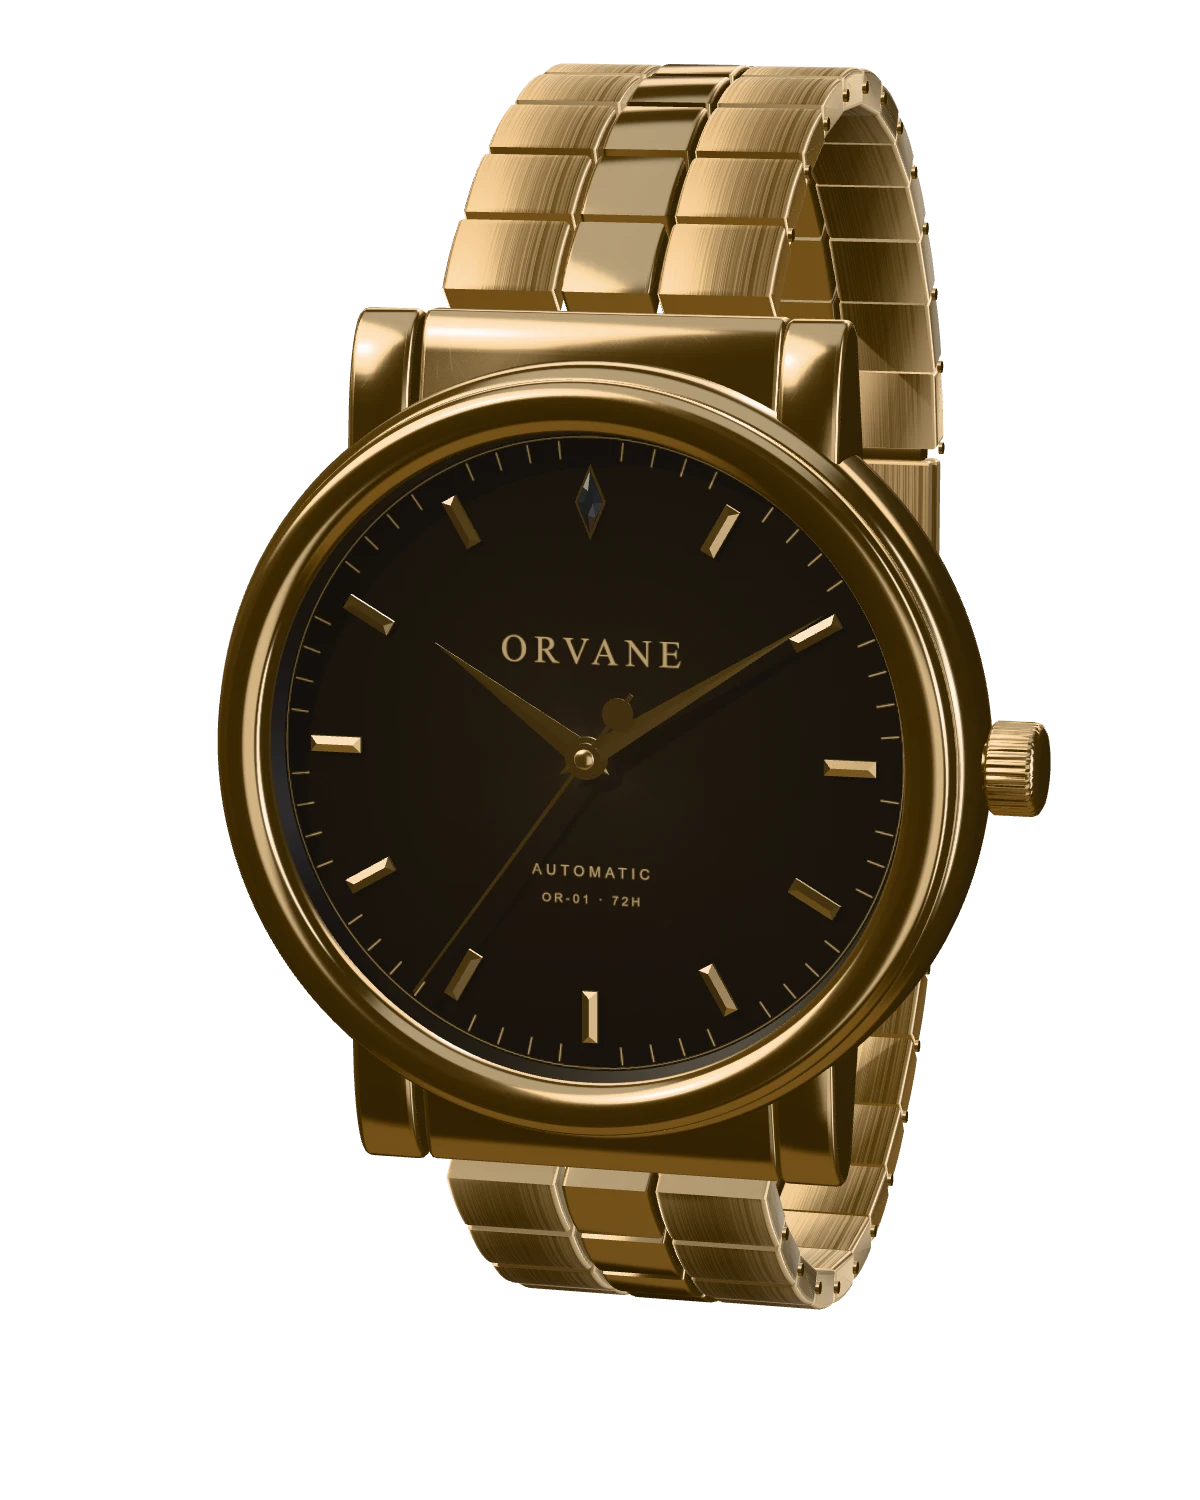
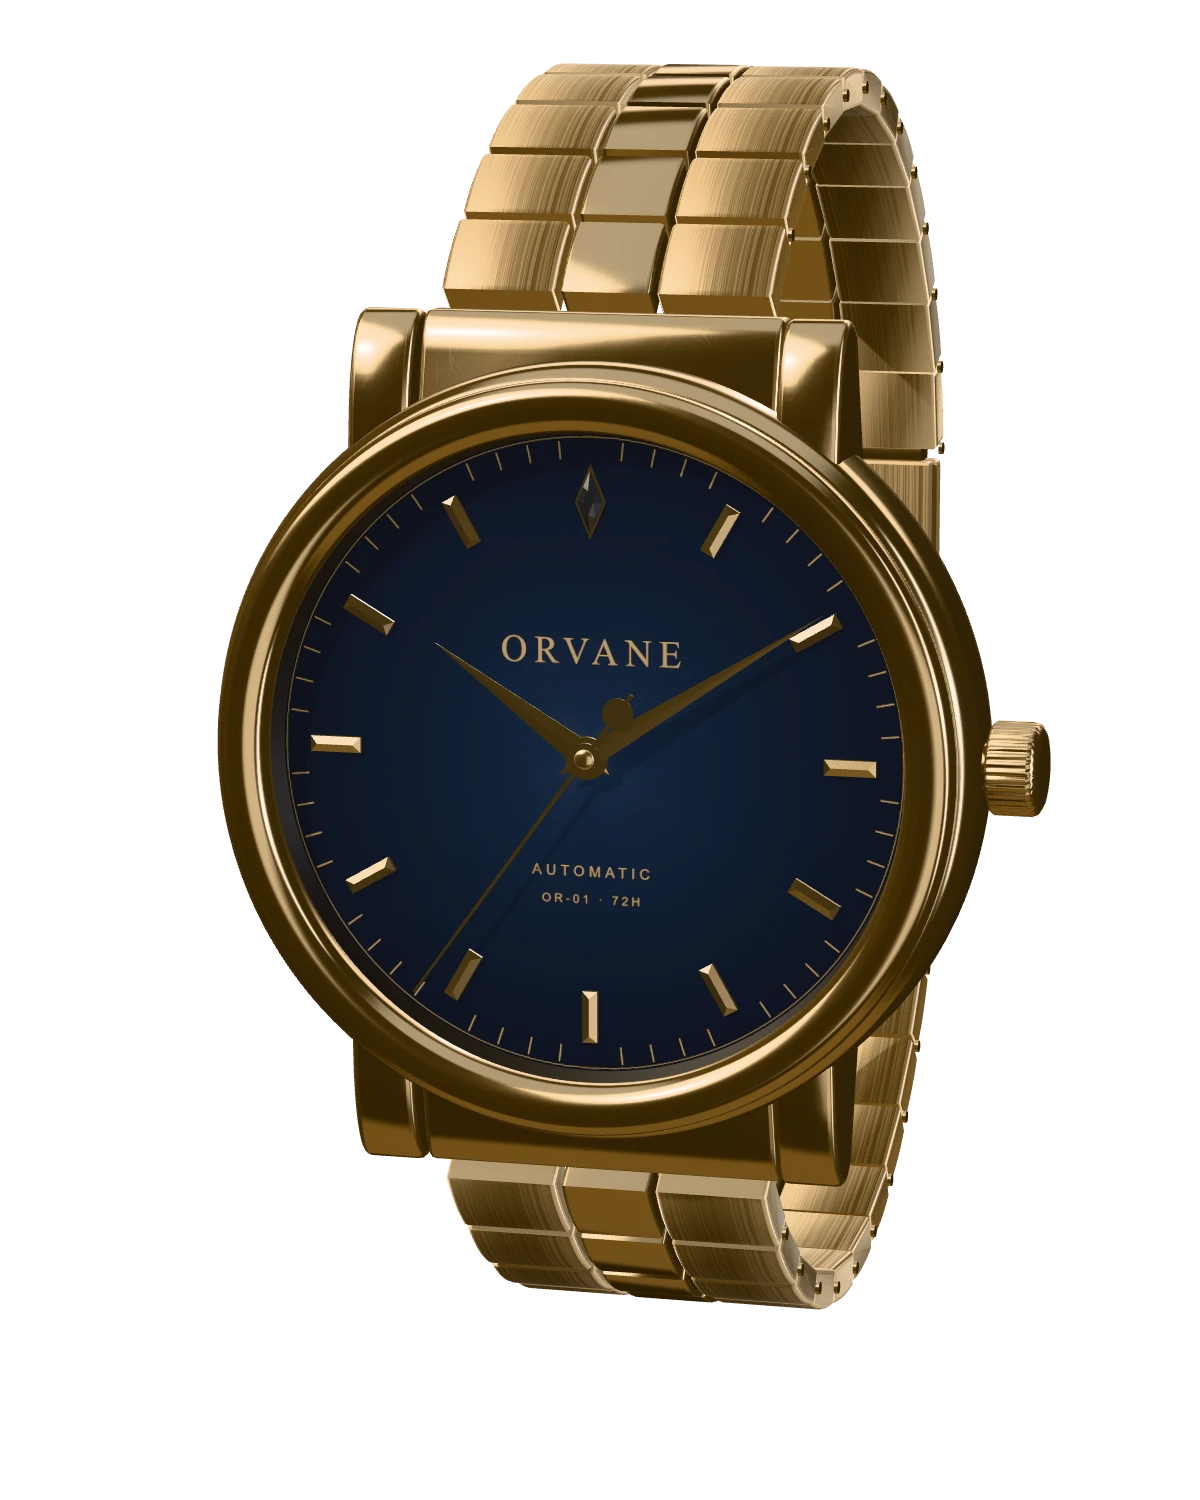
Konfigurator: Zifferblattfarbe der Meridian waehlbar, Nachtblau als Standard
- Zifferblatt in Nachtblau, Waldgruen oder Silber (Silber mit dunkelgoldenem
  Druck); bei der Lumen ausgeblendet; im Warenkorb mit Zifferblatt
- 3D-Ansicht tauscht die Zifferblatt-Textur, jede Farbe wird nur einmal gezeichnet
- Nachtblau ist der neue Standard, auch fuer die Uhr aus Code: kuenftige
  Versionen im Verlauf und die Produktbilder der Startseite haben es
- Produktbilder je Zifferblatt gerendert, Service Worker orvane-v13

Changed region(s): [[0.2775, 0.3067, 0.74, 0.7053]]

diff --git a/js/configurator.js b/js/configurator.js
@@ -1,5 +1,5 @@
 import { CURRENCY } from './config.js';
-import { WATCH_MODELS, CASE_OPTIONS, STRAP_OPTIONS, priceOf, renderImage } from './products.js';
+import { WATCH_MODELS, CASE_OPTIONS, STRAP_OPTIONS, DIAL_OPTIONS, priceOf, renderImage } from './products.js';
 
 // Pose and framing of the 3D view; tools/render-stills.js renders the configurator stills with the same values,
 // so the still can be swapped for the live model without a jump
@@ -17,15 +17,20 @@ export function initConfigurator(form, media, { onAdd }) {
   const closeButton = media.querySelector('[data-configure-close]');
   const modelSelect = form.elements.model;
   modelSelect.replaceChildren(...WATCH_MODELS.map((m) => new Option(`${m.label} · ${m.detail}`, m.id)));
+  const dialFieldset = form.querySelector('[data-dial-fieldset]');
 
+  // dialOpt is null for models without a dial (Lumen)
   const current = () => {
     const data = new FormData(form);
+    const model = WATCH_MODELS.find((m) => m.id === data.get('model'));
     return {
-      model: WATCH_MODELS.find((m) => m.id === data.get('model')),
+      model,
       caseOpt: CASE_OPTIONS.find((o) => o.id === data.get('case')),
       strapOpt: STRAP_OPTIONS.find((o) => o.id === data.get('strap')),
+      dialOpt: model.dials ? DIAL_OPTIONS.find((o) => o.id === data.get('dial')) : null,
     };
   };
+  const describe = ({ caseOpt, strapOpt, dialOpt }) => [caseOpt.label, dialOpt && `Zifferblatt ${dialOpt.label}`, strapOpt.label].filter(Boolean);
 
   let viewer = null;
   let applyLook = null;
@@ -36,25 +41,29 @@ export function initConfigurator(form, media, { onAdd }) {
   function sync3D() {
     syncing = syncing.then(async () => {
       if (!viewer) return;
-      const { model, caseOpt, strapOpt } = current();
+      const { model, caseOpt, strapOpt, dialOpt } = current();
       if (model.id !== shownModel) {
         stage.setAttribute('aria-busy', 'true');
         await viewer.setModel({ model: model.id });
         shownModel = model.id;
         stage.removeAttribute('aria-busy');
       }
-      applyLook(viewer.watch, viewer.parts, caseOpt, strapOpt);
+      await applyLook(viewer.watch, viewer.parts, caseOpt, strapOpt, dialOpt);
     }).catch((err) => console.warn('Configurator 3D update failed', err));
   }
 
   function update() {
-    const { model, caseOpt, strapOpt } = current();
-    image.src = renderImage(model, caseOpt, strapOpt);
-    image.alt = `${model.label} in ${caseOpt.label} mit ${strapOpt.label}`;
-    stage.setAttribute('aria-label', `${model.label} in ${caseOpt.label} mit ${strapOpt.label}, 3D-Ansicht zum Drehen`);
+    const selection = current();
+    const { model, caseOpt, strapOpt, dialOpt } = selection;
+    const [first, ...rest] = describe(selection);
+    image.src = renderImage(model, caseOpt, strapOpt, dialOpt);
+    image.alt = `${model.label} in ${first} mit ${rest.join(' und ')}`;
+    stage.setAttribute('aria-label', `${image.alt}, 3D-Ansicht zum Drehen`);
 
+    dialFieldset.hidden = !model.dials;
     form.querySelector('[data-model-name]').textContent = model.label;
     form.querySelector('[data-selected="case"]').textContent = caseOpt.label;
+    form.querySelector('[data-selected="dial"]').textContent = dialOpt?.label ?? '';
     form.querySelector('[data-selected="strap"]').textContent = strapOpt.label;
     form.querySelector('[data-price]').textContent = CURRENCY.format(priceOf(model, caseOpt, strapOpt));
     sync3D();
@@ -65,7 +74,11 @@ export function initConfigurator(form, media, { onAdd }) {
   function warm(model) {
     if (warmed.has(model.id)) return;
     warmed.add(model.id);
-    for (const c of CASE_OPTIONS) for (const s of STRAP_OPTIONS) new Image().src = renderImage(model, c, s);
+    for (const c of CASE_OPTIONS) {
+      for (const s of STRAP_OPTIONS) {
+        for (const d of model.dials ? DIAL_OPTIONS : [null]) new Image().src = renderImage(model, c, s, d);
+      }
+    }
   }
 
   async function start3D() {
@@ -142,13 +155,14 @@ export function initConfigurator(form, media, { onAdd }) {
   });
   form.addEventListener('submit', (e) => {
     e.preventDefault();
-    const { model, caseOpt, strapOpt } = current();
+    const selection = current();
+    const { model, caseOpt, strapOpt, dialOpt } = selection;
     onAdd({
-      key: `${model.id}-${caseOpt.id}-${strapOpt.id}`,
+      key: [model.id, caseOpt.id, strapOpt.id, dialOpt?.id].filter(Boolean).join('-'),
       name: model.label,
-      variant: `${caseOpt.label} · ${strapOpt.label}`,
+      variant: describe(selection).join(' · '),
       price: priceOf(model, caseOpt, strapOpt),
-      image: renderImage(model, caseOpt, strapOpt),
+      image: renderImage(model, caseOpt, strapOpt, dialOpt),
     });
   });
   update();

diff --git a/tools/render-stills.js b/tools/render-stills.js
@@ -3,14 +3,16 @@
 // or in the console: await window.renderStills() (or renderStills({ models: ['lumen'] }) for one model)
 import { createViewer } from '../js/scene.js';
 import { updateHands } from '../js/clock.js';
-import { CASE_OPTIONS, STRAP_OPTIONS, WATCH_MODELS } from '../js/products.js';
+import { CASE_OPTIONS, STRAP_OPTIONS, DIAL_OPTIONS, DEFAULT_DIAL, WATCH_MODELS, renderImage } from '../js/products.js';
 import { applyLook } from '../js/watch/look.js';
 
 // Classic catalogue time: hands frame the logo; the digital display shows the same time
 const CATALOGUE_TIME = new Date(2026, 0, 1, 10, 9, 36);
 const PIXEL_RATIO = 2;
 
-const look = (caseId, strapId) => ({ case: caseId, strap: strapId });
+const look = (caseId, strapId, dialId = DEFAULT_DIAL) => ({ case: caseId, strap: strapId, dial: dialId });
+// File name of a configurator still, taken from the shop's own naming so both always agree
+const stillName = (m, c, s, d) => renderImage(m, c, s, d).split('/').pop().replace('.webp', '');
 // rx/ry: rig rotation, x: horizontal offset (fraction of width), zoom: camera zoom, w/h: CSS size (canvas is twice that).
 // The configurator views use the same pose as its 3D view starts with (see configurator.js), so the swap is seamless.
 const SHOTS = [
@@ -19,9 +21,9 @@ const SHOTS = [
   { model: 'meridian', name: 'glass', rx: -0.25, ry: 0.2, zoom: 1.9, w: 600, h: 750, ...look('yellow', 'bracelet') },
   { model: 'meridian', name: 'movement', rx: 0.05, ry: Math.PI, zoom: 1.45, w: 600, h: 750, hideStrap: true, ...look('yellow', 'bracelet') },
   { model: 'meridian', name: 'profile', rx: 0.05, ry: -1.35, x: -0.2, zoom: 0.8, w: 600, h: 600, ...look('yellow', 'bracelet') },
-  ...WATCH_MODELS.flatMap((m) => CASE_OPTIONS.flatMap((c) => STRAP_OPTIONS.map((s) => ({
-    model: m.id, name: `${m.id}-${c.id}-${s.id}`, rx: 0.05, ry: -0.35, x: -0.06, zoom: 0.85, w: 600, h: 750, ...look(c.id, s.id),
-  })))),
+  ...WATCH_MODELS.flatMap((m) => CASE_OPTIONS.flatMap((c) => STRAP_OPTIONS.flatMap((s) => (m.dials ? DIAL_OPTIONS : [null]).map((d) => ({
+    model: m.id, name: stillName(m, c, s, d), rx: 0.05, ry: -0.35, x: -0.06, zoom: 0.85, w: 600, h: 750, ...look(c.id, s.id, d?.id),
+  }))))),
 ];
 
 const stage = document.getElementById('stage');
@@ -41,7 +43,8 @@ async function renderShot(shot) {
 
   const caseOpt = CASE_OPTIONS.find((o) => o.id === shot.case);
   const strapOpt = STRAP_OPTIONS.find((o) => o.id === shot.strap);
-  applyLook(viewer.watch, parts, caseOpt, strapOpt);
+  const model = WATCH_MODELS.find((m) => m.id === shot.model);
+  await applyLook(viewer.watch, parts, caseOpt, strapOpt, model.dials ? DIAL_OPTIONS.find((o) => o.id === shot.dial) : null);
   if (parts.strap) parts.strap.visible = !shot.hideStrap;
 
   updateHands(parts, { smooth: false, date: CATALOGUE_TIME });

diff --git a/js/products.js b/js/products.js
@@ -3,7 +3,7 @@
 
 // Watches in the configurator; case prices per model (straps are priced the same on both)
 export const WATCH_MODELS = [
-  { id: 'meridian', label: 'Meridian', detail: 'Automatik · 41 mm', prices: { rose: 24800, yellow: 25600, steel: 9400 } },
+  { id: 'meridian', label: 'Meridian', detail: 'Automatik · 41 mm', prices: { rose: 24800, yellow: 25600, steel: 9400 }, dials: true },
   { id: 'lumen', label: 'Lumen', detail: 'Digital · 37 × 40 mm', prices: { rose: 12600, yellow: 13200, steel: 4200 } },
 ];
 
@@ -19,8 +19,22 @@ export const STRAP_OPTIONS = [
   { id: 'leather-black', label: 'Leder Schwarz', variant: 'leather', color: 0x0e0d0d, swatch: '#1c1a19', price: -1800 },
 ];
 
+// Dial colours for models with a dial (Meridian): sunburst centre, darker edge, print colour (passed to
+// createDialTexture). The light dial gets a dark gold print so it stays legible.
+// Night blue is the standard dial (also the one the code builds, see createDialTexture); black was dropped.
+export const DIAL_OPTIONS = [
+  { id: 'blue', label: 'Nachtblau', base: '#203252', edge: '#0a1325', print: '#e3c99a' },
+  { id: 'green', label: 'Waldgrün', base: '#233c2e', edge: '#0b1810', print: '#e3c99a' },
+  { id: 'silver', label: 'Silber', base: '#e1ded7', edge: '#aaa59b', print: '#6f5322' },
+].map((d) => ({ ...d, swatch: `radial-gradient(circle at 40% 35%, ${d.base}, ${d.edge})` }));
+export const DEFAULT_DIAL = 'blue';
+
 export const priceOf = (model, caseOpt, strapOpt) => model.prices[caseOpt.id] + strapOpt.price;
-export const renderImage = (model, caseOpt, strapOpt) => `assets/img/renders/${model.id}-${caseOpt.id}-${strapOpt.id}.webp`;
+// Stills per model, case, strap and (for models with a dial) dial colour; the standard dial keeps the plain name
+export const renderImage = (model, caseOpt, strapOpt, dialOpt) => {
+  const dial = model.dials && dialOpt && dialOpt.id !== DEFAULT_DIAL ? `-${dialOpt.id}` : '';
+  return `assets/img/renders/${model.id}-${caseOpt.id}-${strapOpt.id}${dial}.webp`;
+};
 
 export const COLLECTION = [
   {

diff --git a/js/watch/look.js b/js/watch/look.js
@@ -1,9 +1,22 @@
 import { MATERIAL_NAMES, STRAP_VARIANTS } from '../config.js';
-import { METALS } from './materials.js';
+import { METALS, createDialTexture } from './materials.js';
 
-// Applies a case metal and strap choice to a loaded watch (any model built from the shared materials and strap).
-// Used by the configurator and by tools/render-stills.
-export function applyLook(watch, parts, caseOpt, strapOpt) {
+// Dial textures are expensive to draw (2048 px with grain and sunburst), so each colour is drawn once
+const dialTextures = new Map();
+const cachedDials = new Set();
+function dialTexture(dialOpt) {
+  if (!dialTextures.has(dialOpt.id)) {
+    dialTextures.set(dialOpt.id, createDialTexture(dialOpt).then((t) => {
+      cachedDials.add(t);
+      return t;
+    }));
+  }
+  return dialTextures.get(dialOpt.id);
+}
+
+// Applies a case metal, strap and (for watches with a dial) dial colour to a loaded watch
+// (any model built from the shared materials and strap). Used by the configurator and by tools/render-stills.
+export async function applyLook(watch, parts, caseOpt, strapOpt, dialOpt) {
   const forEachMaterial = (name, fn) => watch.traverse((obj) => {
     if (!obj.isMesh) return;
     for (const mat of [obj.material].flat()) if (mat.name === name) fn(mat);
@@ -14,4 +27,13 @@ export function applyLook(watch, parts, caseOpt, strapOpt) {
     if (node) node.visible = key === strapOpt.variant;
   }
   if (strapOpt.color !== undefined) forEachMaterial(MATERIAL_NAMES.leather, (mat) => mat.color.setHex(strapOpt.color));
+  if (dialOpt) {
+    const texture = await dialTexture(dialOpt);
+    forEachMaterial(MATERIAL_NAMES.dial, (mat) => {
+      if (mat.map === texture) return;
+      if (mat.map && !cachedDials.has(mat.map)) mat.map.dispose(); // the model's own dial texture
+      mat.map = texture;
+      mat.needsUpdate = true;
+    });
+  }
 }

diff --git a/sw.js b/sw.js
@@ -6,7 +6,7 @@
 // CDN libraries and fonts: cache first (their URLs are version-pinned and never change).
 // Bump VERSION when the precache list changes.
 // All paths are relative to this file, so the app also works in a sub-folder (e.g. GitHub Pages /Watch-Shop/).
-const VERSION = 'orvane-v11';
+const VERSION = 'orvane-v13';
 const HISTORY_URL = './assets/models/history/';
 
 const CDN_THREE = 'https://cdn.jsdelivr.net/npm/three@0.169.0';
@@ -25,8 +25,10 @@ const PRECACHE = [
   './js/logo/crystals.js', './js/logo/crystalMesh.js', './js/logo/logos-page.js',
   './js/history/history.js', './js/history/saveVersion.js', './js/tests/css-clock.js',
   ...['hero', 'case', 'glass', 'movement', 'profile'].map((name) => `./assets/img/renders/${name}.webp`),
+  // Configurator stills: model x case x strap, the Meridian also per dial colour (the night-blue standard has no suffix)
   ...['meridian', 'lumen'].flatMap((m) => ['rose', 'yellow', 'steel'].flatMap((c) => ['bracelet', 'leather-brown', 'leather-black']
-    .map((strap) => `./assets/img/renders/${m}-${c}-${strap}.webp`))),
+    .flatMap((strap) => (m === 'meridian' ? ['', '-green', '-silver'] : [''])
+      .map((dial) => `./assets/img/renders/${m}-${c}-${strap}${dial}.webp`)))),
   './assets/img/logo.svg', './assets/img/lifestyle.svg', './assets/img/movement.svg',
   './assets/img/collection/meridian-rose.svg', './assets/img/collection/meridian-steel.svg',
   './assets/img/collection/solstice-gold.svg', './assets/img/collection/abyss-steel.svg',

diff --git a/js/main.js b/js/main.js
@@ -1,4 +1,4 @@
-import { COLLECTION, CASE_OPTIONS, STRAP_OPTIONS } from './products.js';
+import { COLLECTION, CASE_OPTIONS, STRAP_OPTIONS, DIAL_OPTIONS, DEFAULT_DIAL } from './products.js';
 import { renderSwatches, renderCollection } from './ui.js';
 import { initConfigurator } from './configurator.js';
 import { createCart } from './cart.js';
@@ -6,6 +6,7 @@ import { createCart } from './cart.js';
 document.getElementById('year').textContent = new Date().getFullYear();
 
 renderSwatches(document.querySelector('[data-option="case"]'), 'case', CASE_OPTIONS, 'yellow');
+renderSwatches(document.querySelector('[data-option="dial"]'), 'dial', DIAL_OPTIONS, DEFAULT_DIAL);
 renderSwatches(document.querySelector('[data-option="strap"]'), 'strap', STRAP_OPTIONS, 'bracelet');
 renderCollection(document.getElementById('collection-grid'), COLLECTION);
 

diff --git a/js/watch/materials.js b/js/watch/materials.js
@@ -141,14 +141,15 @@ export function createGlass() {
 // Dark, satin dial: not mirror-like, sunburst and grain come from the texture
 export function createDial(texture) {
   return new THREE.MeshPhysicalMaterial({
-    name: 'Dial',
+    name: MATERIAL_NAMES.dial,
     map: texture,
     metalness: 0.25,
     roughness: 0.4,
   });
 }
 
-export async function createDialTexture({ base = '#25211d', edge = '#0f0d0b', print = '#e3c99a' } = {}) {
+// Defaults are the standard night-blue dial, so every watch built in code (and every saved version) has it
+export async function createDialTexture({ base = '#203252', edge = '#0a1325', print = '#e3c99a' } = {}) {
   await Promise.all([
     document.fonts.load('400 100px "Cormorant Garamond"'),
     document.fonts.load('400 40px "Inter"'),

diff --git a/index.html b/index.html
@@ -176,6 +176,10 @@
           <legend>Gehäuse <span data-selected="case"></span></legend>
           <div class="swatches" data-option="case"></div>
         </fieldset>
+        <fieldset data-dial-fieldset>
+          <legend>Zifferblatt <span data-selected="dial"></span></legend>
+          <div class="swatches" data-option="dial"></div>
+        </fieldset>
         <fieldset>
           <legend>Armband <span data-selected="strap"></span></legend>
           <div class="swatches" data-option="strap"></div>

diff --git a/js/config.js b/js/config.js
@@ -28,6 +28,7 @@ export const DEFAULT_MODEL = 'meridian';
 export const MATERIAL_NAMES = {
   caseMetal: 'CaseMetal',
   leather: 'StrapLeather',
+  dial: 'Dial',
 };
 
 // Strap variants are children of the Strap node; the configurator shows one at a time.

diff --git a/README.md b/README.md
@@ -18,7 +18,7 @@ Danach im Browser öffnen: [http://127.0.0.1:5173](http://127.0.0.1:5173)
 
 ## Seiten
 
-- `index.html` – Shop mit Produktbildern, Story, Details und Konfigurator; im Konfigurator Modell per Dropdown wählen (Meridian, Lumen) und die Uhr in 3D drehen (three.js lädt erst, wenn der Konfigurator in Sicht kommt)
+- `index.html` – Shop mit Produktbildern, Story, Details und Konfigurator; im Konfigurator Modell per Dropdown wählen (Meridian, Lumen), bei der Meridian die Zifferblattfarbe, und die Uhr in 3D drehen (three.js lädt erst, wenn der Konfigurator in Sicht kommt)
 - `tests.html` – interne Experimente, z. B. das Lumen-Display nur mit HTML/CSS
 - `history.html` – Modell-Verlauf aller gespeicherten Uhrenversionen (glb) mit drehbarer 3D-Detailansicht, Filter nach Modell (Meridian, Lumen), auf dem Handy als Vollbild mit Pfeilen
 - `logos.html` – Entwürfe des Orvane-Kristalls in 2D und 3D
